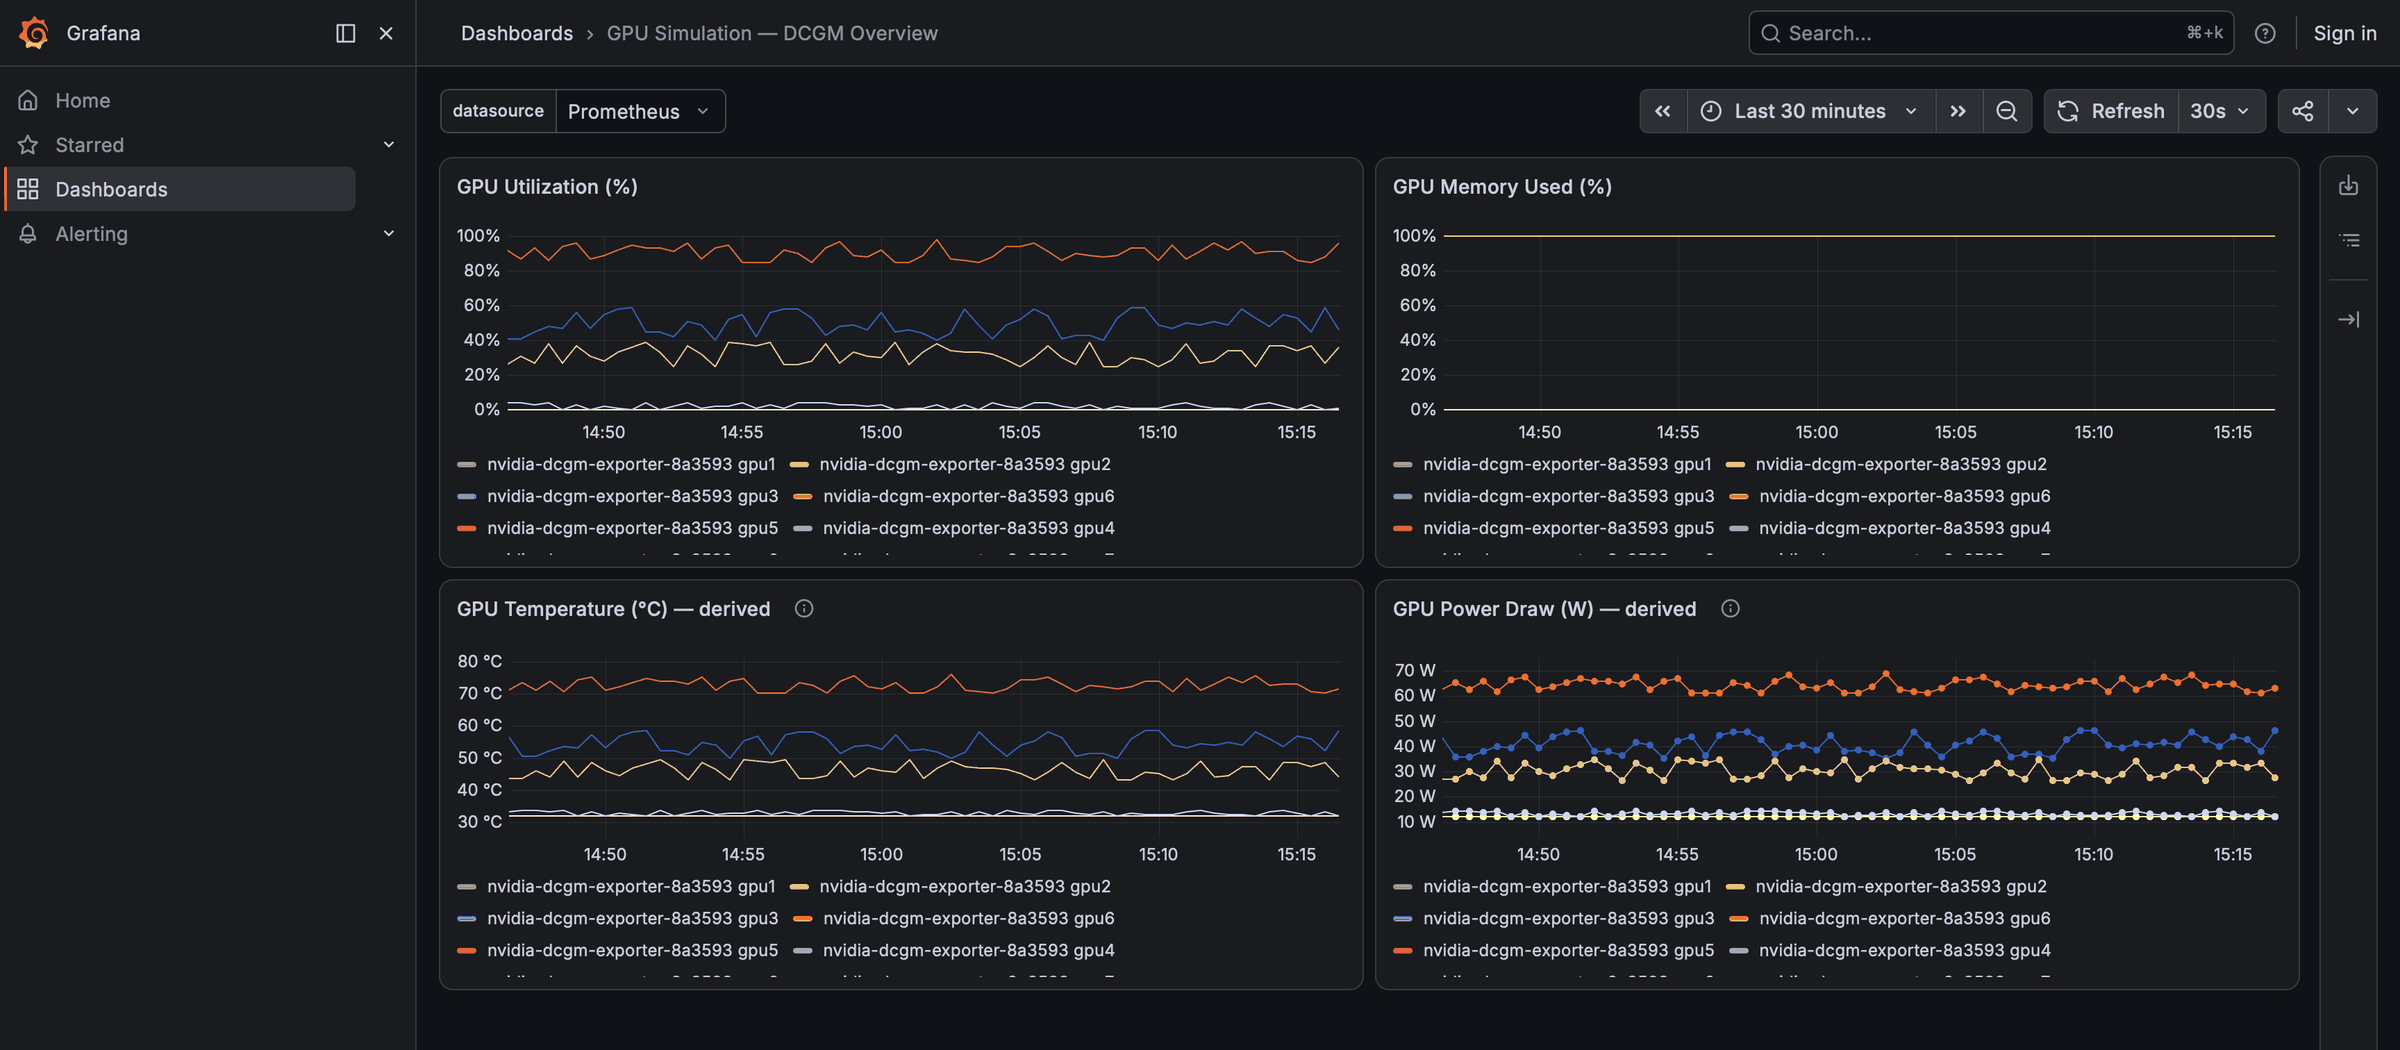
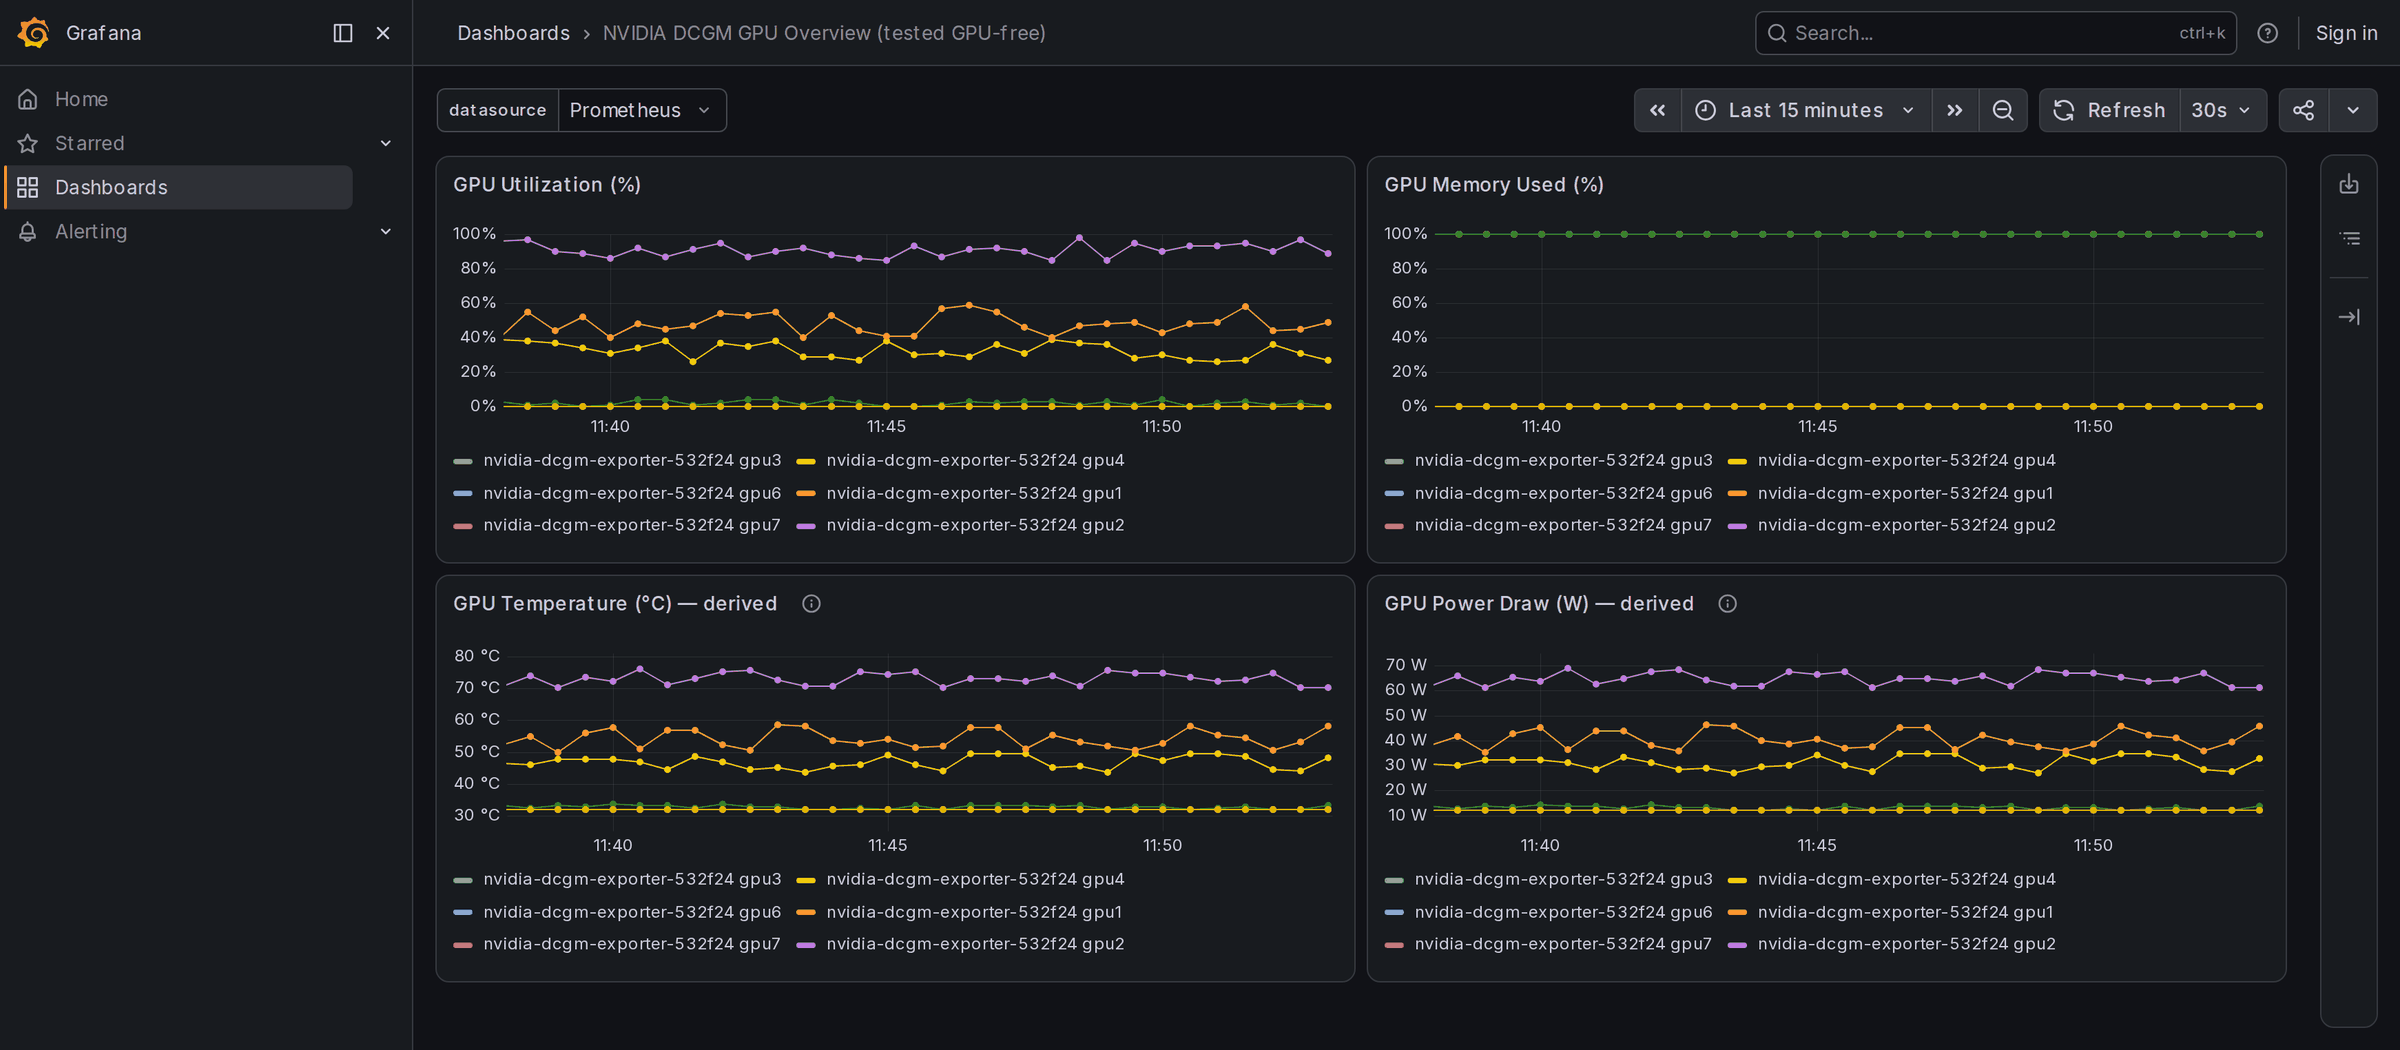
Retake both dashboard screenshots with the new titles, and rebuild the social card
Both screenshots showed the old titles in Grafana's breadcrumb, and
docs/gpu-dashboard.png is also the image on the GPU board's grafana.com
page. They were retaken on the kind cluster, not compose, because
compose cannot populate the LLM board's "Simulated GPU attribution"
table (no device plugin), and the old shot came from kind.

The capture matches the originals' geometry, so the frames and the
social card's crop still line up. The committed shots measure as one
window about 1742 CSS px wide: the GPU board at 100% (1742x762) and the
LLM board at 50% (3484x2005). Both were captured at DPR 2 in Chromium
(Playwright in a container, locale en-GB; en-US@posix stops Grafana
booting), and docs/optimize-images.py brought them to exactly the old
2400x1050 and 2400x1381. verify.sh passed on the cluster before the
capture, and the capture waited for a full 15-minute window.

social-preview.py's crop was re-measured by scanning for background
gutters, as its comment requires after a retake. The edges had moved
one or two pixels, enough to shave the top panel's border. The card
was regenerated and checked by eye: four whole panels, nothing cut.

The new LLM shot's steady p95 reads ~99 ms, and its batch peaked at 14
of 16, so nothing queued. The README note said "the screenshot reads
~480 ms" and explained why. That became false, so the note and
docs/llm-simulation.md now give what was measured: ~99 ms here, ~440 ms
in a capture minutes after install, ~480 ms in the 2026-08-01 shot.
[…]

diff --git a/docs/social-preview.py b/docs/social-preview.py
@@ -46,9 +46,12 @@ RULE = (38, 42, 51)
 #
 # So: RE-CHECK THIS CROP WHENEVER llm-dashboard.png IS RETAKEN. The row boundaries
 # are measurable — scan the source for rows that are uniformly page-background and
-# take the gutters between panels. On the current capture they are 0.0565-0.2252
-# (row 1) and 0.2288-0.3968 (row 2), which is where the y values below come from.
-FRAC = (0.0908, 0.0565, 0.9792, 0.3968)     # x0, y0, x1, y1
+# take the gutters between panels. On the 2026-09-15 retake they are 0.0558-0.2238
+# (row 1) and 0.2259-0.3946 (row 2), and the board's edges 0.0900-0.9771, which is
+# where the values below come from. (The 2026-08-01 capture measured 0.0565-0.2252
+# and 0.2288-0.3968 with 0.0908-0.9792: close, and still enough to shave the top
+# panel's border had they been kept.)
+FRAC = (0.0900, 0.0558, 0.9771, 0.3946)     # x0, y0, x1, y1
 
 src = Image.open(SRC).convert("RGB")
 sw, sh = src.size

diff --git a/docs/llm-simulation.md b/docs/llm-simulation.md
@@ -337,14 +337,16 @@ Three numbers interlock, and changing one means re-checking the others:
 ### Why an observed steady p95 runs higher than ~0.1s
 
 `~0.1s` is what the arithmetic above **models**: with the queue empty, TTFT is
-`base_ttft_seconds` plus jitter. A live capture routinely reads several times that — the
-screenshot in the README shows **~480 ms** — and the reason is in the same arithmetic
-rather than in a fault.
+`base_ttft_seconds` plus jitter. A live capture often reads several times that (**~440
+ms** minutes after an install on 2026-09-15, **~480 ms** in the README's 2026-08-01
+screenshot), and the reason is in the same arithmetic rather than in a fault. A window in
+which the batch never fills reads the model instead: the current README screenshot shows
+**~99 ms**, its batch peaking at 14 of 16.
 
 By Little's Law the steady tenant's mean concurrency is `arrival_rate_rps × service time`
 = `1.8 × 5.84` = **10.5, against a `max_concurrency` of 16**. That is a batch two-thirds
 full *on average*, and arrivals are Poisson (`_interarrival()` draws from
-`rng.expovariate`), so it reaches 16 regularly. Every arrival that lands while it is full
+`rng.expovariate`), so it reaches 16 often, if not in every window. Every arrival that lands while it is full
 waits, and reported TTFT is measured queue wait plus prefill.
 
 ⚠ **The `waiting` gauge can read flat zero throughout while that happens, and the two are
@@ -356,7 +358,7 @@ histogram answers "what did requests actually experience". When they disagree, t
 histogram is the one describing your users.
 
 None of this moves the demonstration, which is the point of the two tenants rather than the
-absolute figures: ~480 ms is still more than an order of magnitude below the 2s threshold,
+absolute figures: even ~480 ms is more than an order of magnitude below the 2s threshold,
 and the saturated tenant sits two orders above it.
 
 A malformed profile is never fatal: the simulator logs the problem, keeps the last good

diff --git a/README.md b/README.md
@@ -109,11 +109,14 @@ simulators. `sim-llama-3-8b-steady` answers in ~120 ms; `sim-llama-3-8b-saturate
 a p95 of 78s with 16 requests running and 160 queued behind it. Every panel aggregates
 `by (model_name)`, so the overloaded tenant is never averaged into the healthy one.
 
-> **The screenshot's healthy tenant reads ~480 ms rather than ~120 ms**, with its queue flat
-> at zero throughout. Both are right: `~120 ms` is what the profile arithmetic models, while
-> a live capture catches a batch that fills often enough for some requests to wait, which a
-> 15s-sampled gauge misses and the TTFT histogram records in full. It is still an order of
-> magnitude under the 2s threshold, which is what the panel exists to show.
+> **The healthy tenant's p95 depends on the window you capture.** This screenshot reads
+> ~99 ms, close to the ~120 ms the profile arithmetic models: in these fifteen minutes its
+> batch peaked at 14 of 16 slots, so no request waited. A capture from the same cluster
+> minutes after install read ~440 ms, and the previous screenshot ~480 ms, with the queue
+> gauge flat at zero in both. All three are right. The batch is two-thirds full on average
+> and fills now and then, every request that arrives while it is full waits, and a
+> 15s-sampled gauge misses what the TTFT histogram records in full. Either way it sits an
+> order of magnitude or more under the 2s threshold, which is what the panel exists to show.
 > [The arithmetic](docs/llm-simulation.md#why-an-observed-steady-p95-runs-higher-than-01s).
 
 ## What transfers, and what doesn't

diff --git a/CHANGELOG.md b/CHANGELOG.md
@@ -119,6 +119,18 @@ Comparison links are at the foot of this file, one per released version.
   SLO at `le="2"` that can never fire, a prefill p95 read 3.03x high, and the panels an
   engine upgrade blanks. The method paragraph moved to "Contributing and support".
 
+- **Both dashboard screenshots retaken, and the social card rebuilt from the new one.**
+  Their breadcrumbs showed the old titles, and the GPU one is the image on its grafana.com
+  page. Taken on kind at the originals' geometry (the same 2400x1050 and 2400x1381 after
+  `optimize-images.py`), with `verify.sh` passing first. The card's crop was re-measured,
+  as its script requires after a retake: the edges had moved by one or two pixels from the
+  old fractions, enough to shave the top panel's border.
+
+  The new LLM shot's healthy tenant reads ~99 ms, not the ~480 ms the README's note
+  explained, because its batch never filled in that window. The note and
+  `docs/llm-simulation.md` now give the range observed rather than one capture's number.
+  `demo.gif` still shows the old titles and is marked as open in `docs/record-demo.md`.
+
 ### Removed
 
 - **The development-loop harness, moved out of this repository**: the `/spike-loop` skill

diff --git a/docs/record-demo.md b/docs/record-demo.md
@@ -19,6 +19,11 @@ screen changes, so the gaps between frame timestamps *are* the inactive stretche
 holds over 2s were capped at 1.5s. See the `[Unreleased]` entry in `CHANGELOG.md` for that
 part.
 
+⚠ **The GIF still needs re-recording for the board titles.** It shows "GPU Simulation" and
+"LLM Simulation", which the boards stopped being called on 2026-09-15
+(`manifests/dashboards/README.md`). The two still screenshots were retaken that day; this
+is the one visual asset left with the old names, and it needs a human at a terminal.
+
 ⚠ **Unverified:** neither source is in the repo, so this page is not runnable from a clean
 clone. That is deliberate for the master, which git would keep forever, but it means a
 rebuild depends on files only on the author's machine. Whether the 45s cut is small enough
